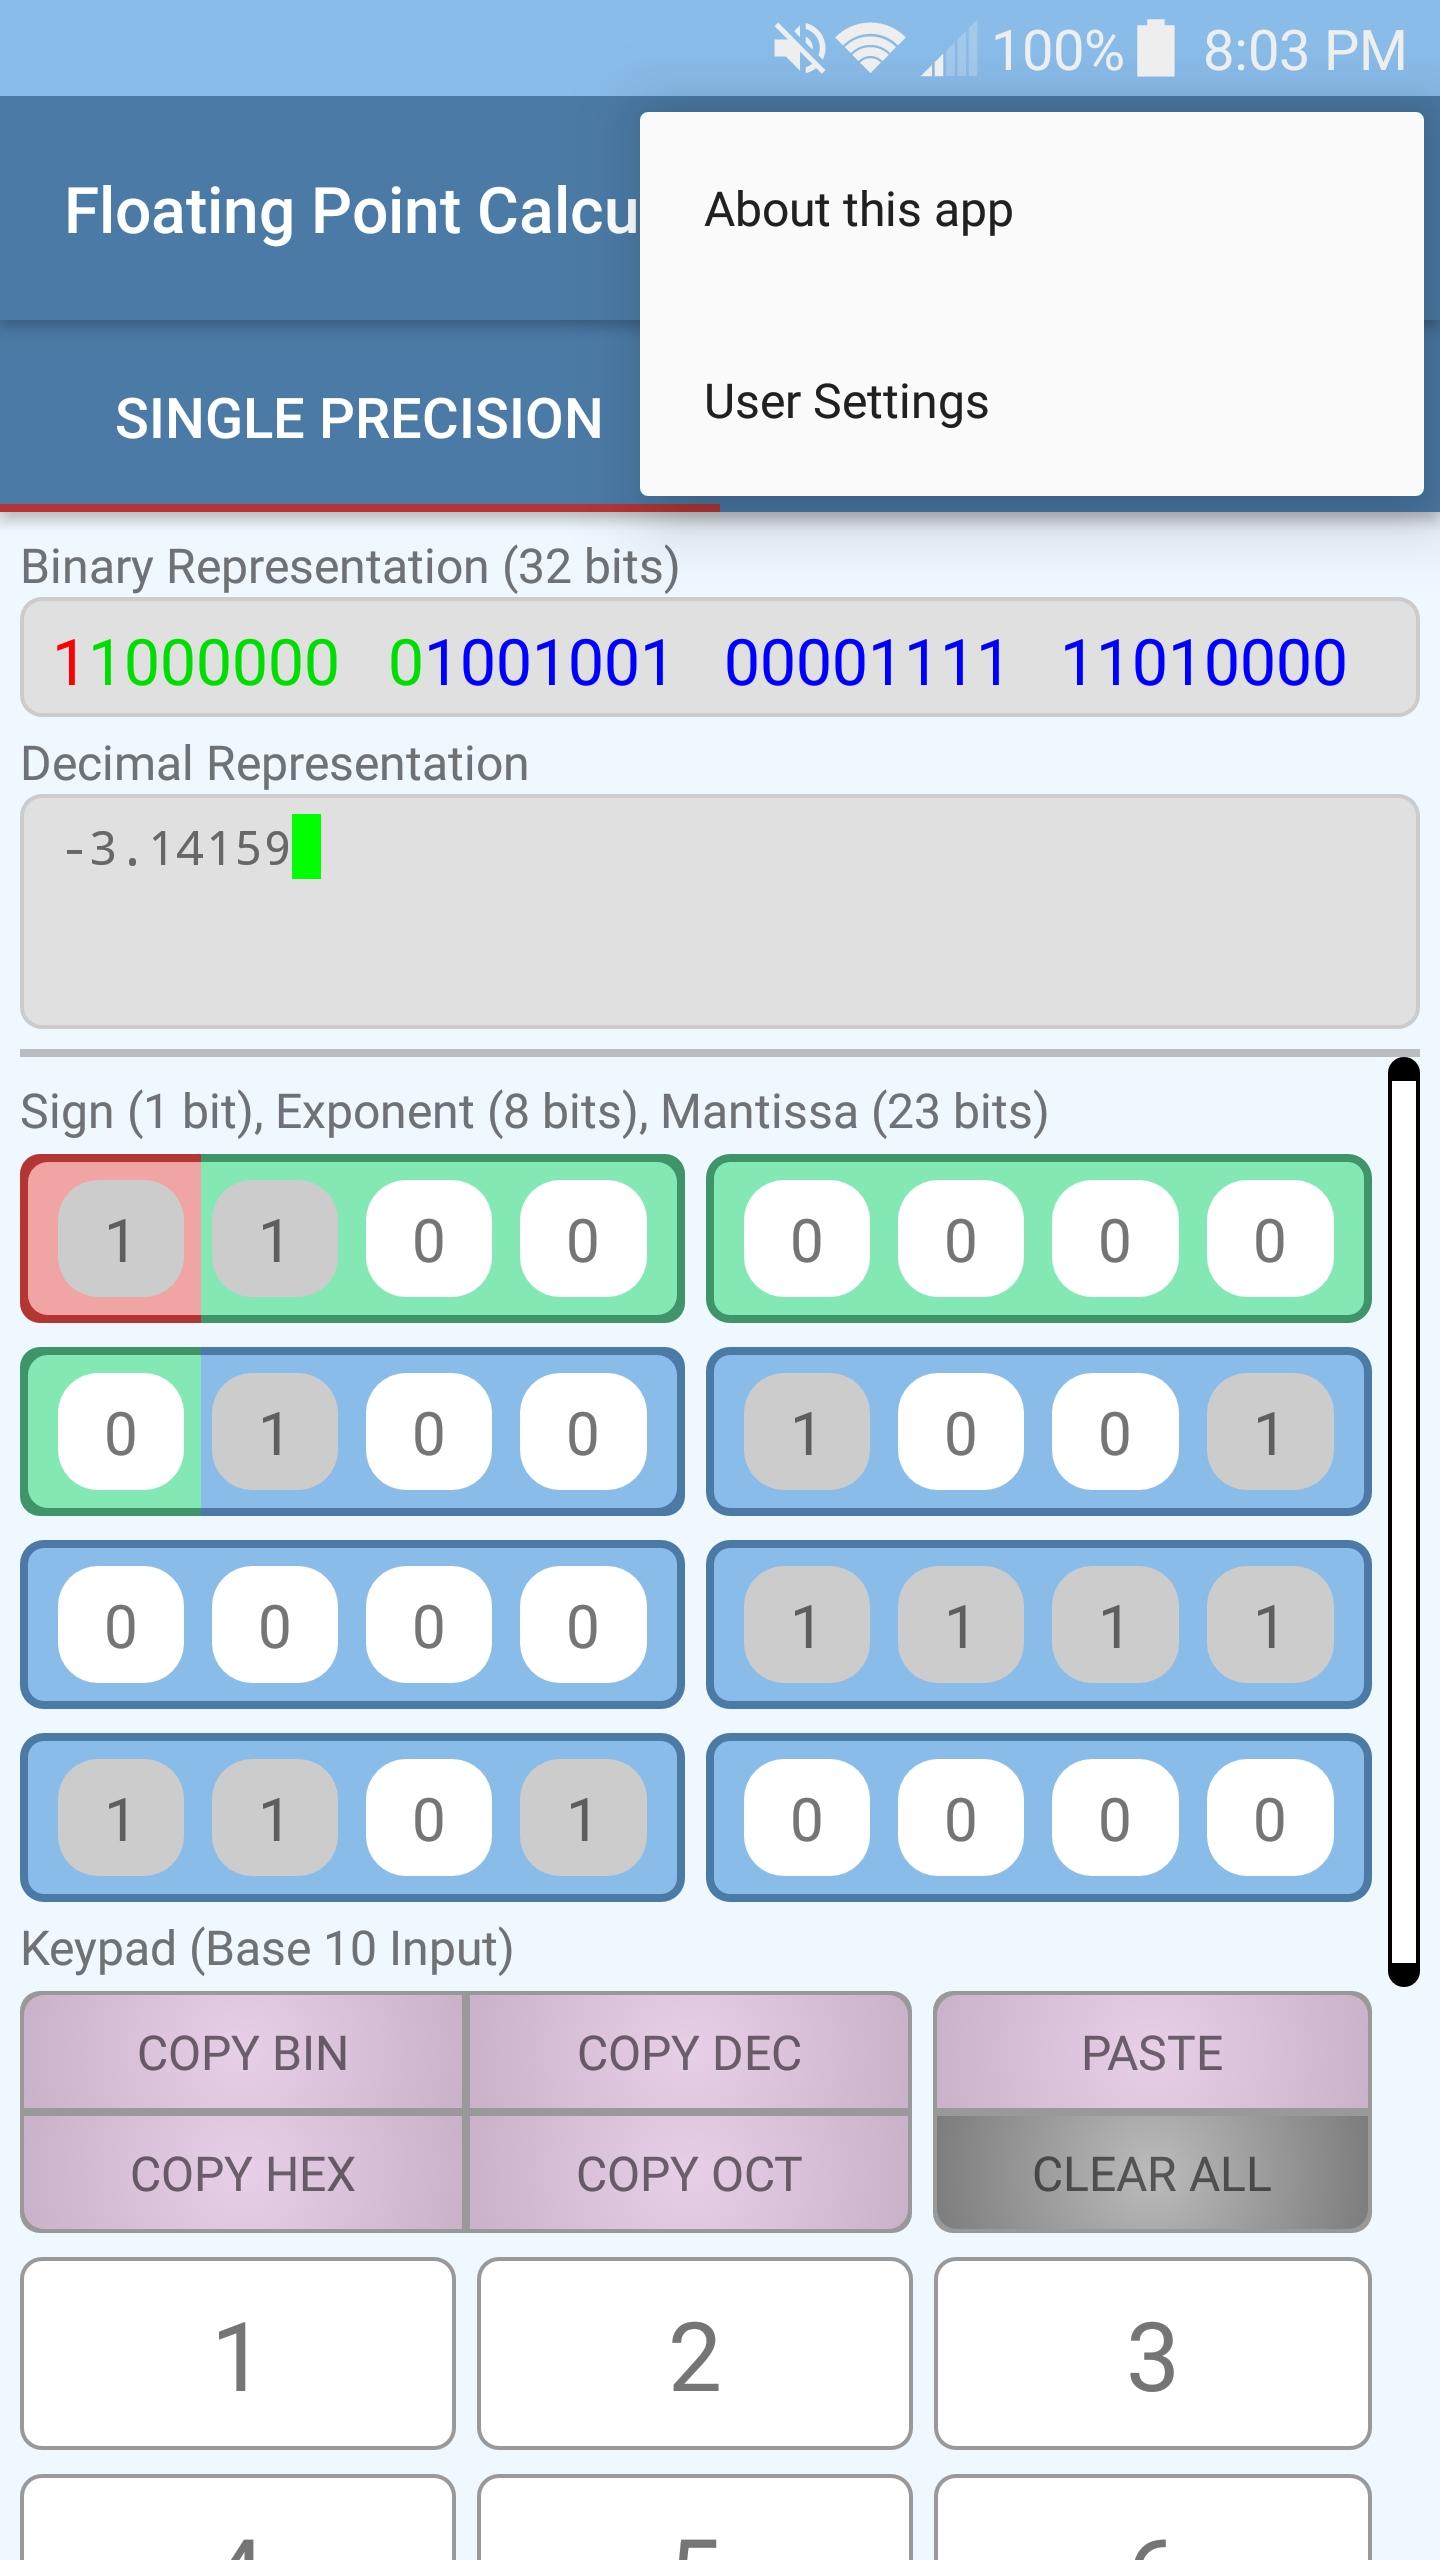
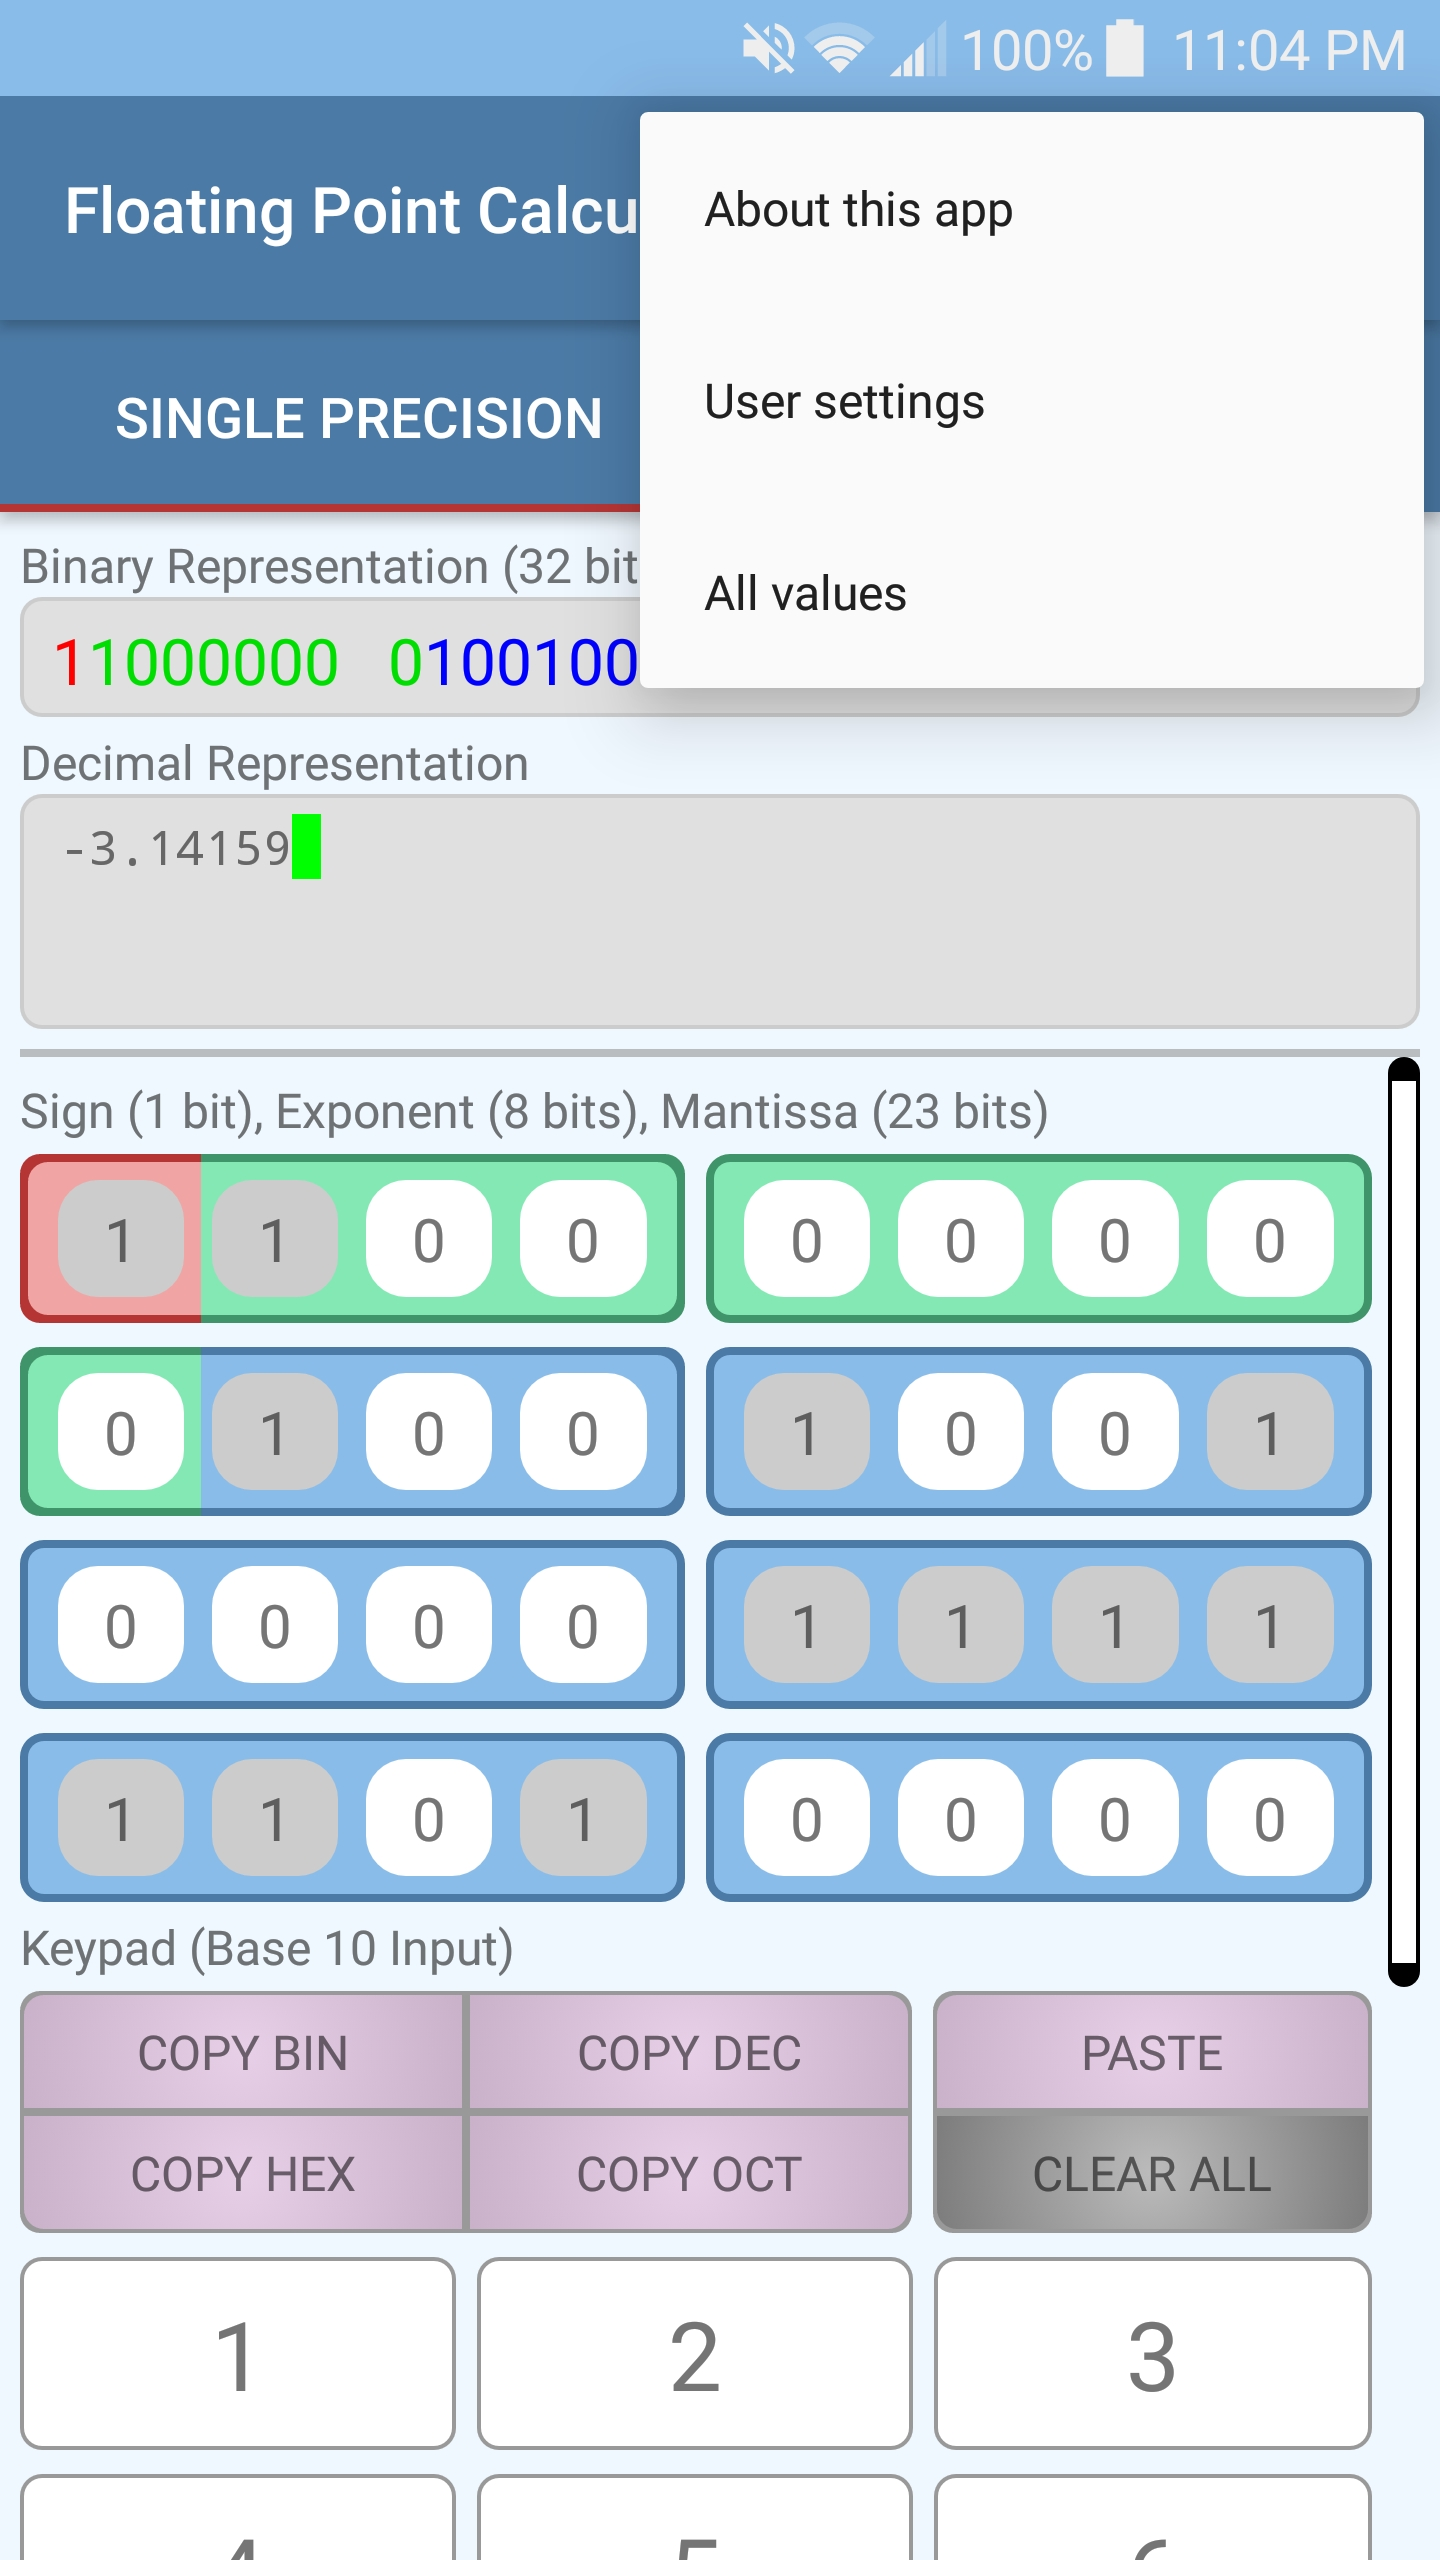
Update portfolio

Changed region(s): [[0.4375, 0.125, 1.0, 0.2812], [0.5, 0.0, 0.9062, 0.0312]]

diff --git a/portfolio.html b/portfolio.html
@@ -432,6 +432,15 @@
                                                     <h5>Change Log</h5>
                                                     <div class="custom-scroll" style="overflow: scroll; overflow-x: hidden; background-color:PaleTurquoise none; width: 100%; height: 300px; margin-left: -5px !important;">
                                                         <font size="4">
+                                                            <p><b>v1.5.0</b></p>
+                                                            <p>New Features</p>
+                                                            <ul>
+                                                                <li>Added options for copying the decimal value as a float, signed integer, or unsigned integer.</li>
+                                                                <li>Added option to show all converted values and copy them.</li>
+                                                                <li>Added option to automatically hide the scrollbar.</li>
+                                                                <li>Other minor visual changes.</li>
+                                                            </ul>
+                                                            <br>
                                                             <p><b>v1.4.0</b></p>
                                                             <p>New Features</p>
                                                             <ul>
@@ -546,8 +555,8 @@
                                                     <br>
                                                 </div>
                                                 <div class="col-sm-12 col-md-6 col-lg-6" style="padding-left: 2%; padding-right: 2%;">                                                
-                                                    <a class="screenshot-right border" data-toggle="modal" data-target="#screenshotModal" data-screenshot="ximages/fpc_double_precision.jpg"><img src="ximages/fpc_double_precision.jpg" alt="placeholder"></a>
-                                                    <p class="caption">Double precision</p>
+                                                    <a class="screenshot-right border" data-toggle="modal" data-target="#screenshotModal" data-screenshot="ximages/fpc_all_values.jpg"><img src="ximages/fpc_all_values.jpg" alt="placeholder"></a>
+                                                    <p class="caption">All values</p>
                                                     <br>
                                                 </div>
                                                 <div class="col-sm-12 col-md-6 col-lg-6" style="padding-left: 2%; padding-right: 2%;">                                                
@@ -573,6 +582,16 @@
                                                 <div class="col-sm-12 col-md-6 col-lg-6" style="padding-left: 2%; padding-right: 2%;">                                                
                                                     <a class="screenshot-right border" data-toggle="modal" data-target="#screenshotModal" data-screenshot="ximages/fpc_large_display_w_ads.png"><img src="ximages/fpc_large_display_w_ads.png" alt="placeholder"></a>
                                                     <p class="caption">App on large screen devices</p>
+                                                    <br>
+                                                </div>
+                                                <div class="col-sm-12 col-md-6 col-lg-6" style="padding-left: 2%; padding-right: 2%;">                                                
+                                                    <a class="screenshot-right border" data-toggle="modal" data-target="#screenshotModal" data-screenshot="ximages/fpc_large_display_all_values.png"><img src="ximages/fpc_large_display_all_values.png" alt="placeholder"></a>
+                                                    <p class="caption">Another view on large screens</p>
+                                                    <br>
+                                                </div>
+                                                <div class="col-sm-12 col-md-6 col-lg-6" style="padding-left: 2%; padding-right: 2%;">                                                
+                                                    <a class="screenshot-right border" data-toggle="modal" data-target="#screenshotModal" data-screenshot="ximages/fpc_large_display_double_precision.png"><img src="ximages/fpc_large_display_double_precision.png" alt="placeholder"></a>
+                                                    <p class="caption">Double precision</p>
                                                     <br>
                                                 </div>
                                             </div>
